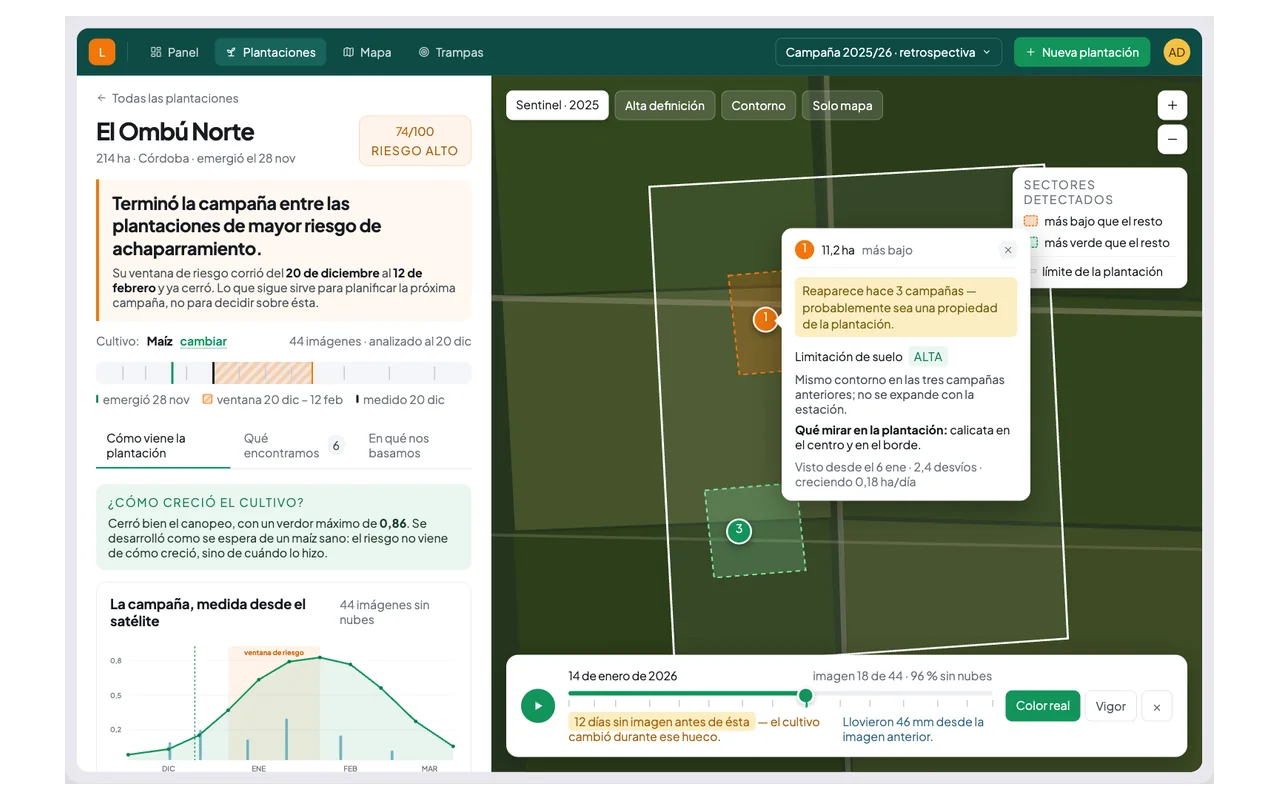
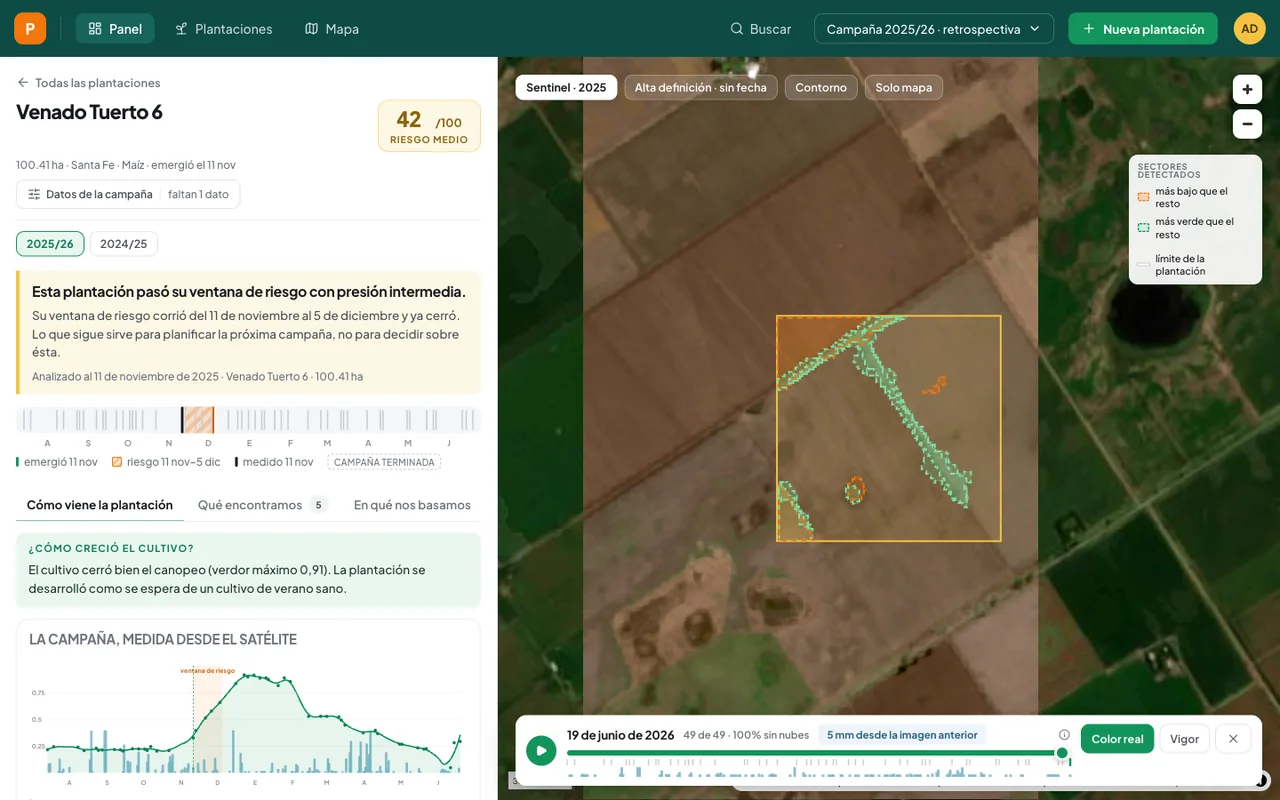
feat(projects): real screenshots from the running apps
Agro Alerta's four slides were design-handoff mockups; they are now the running
product, captured against its local backend and seeded database: the dashboard
with eleven fields pinned on the Sentinel-2 mosaic, one field in detail with its
anomalous sectors and a scrubber through 49 cloud-free captures, the risk-ranked
portfolio table, and the map view.

SnowRide's five slides showed the previous UI; the app was overhauled since.
Four new slides captured from expo web against the local API and its seeded
users cover both sides of the marketplace: rider home and instructor list, a
verified profile beside the bookings screen, the instructor's income and
requests beside the agenda, and pricing tiers beside the Cerro Catedral piste
map.

build-shots.py now builds only solar-fs and says why: regenerating the other
two from files would silently resurrect screenshots of the old UI.

diff --git a/src/data/es.ts b/src/data/es.ts
@@ -149,11 +149,10 @@ export const es: ResumeData = {
         'Un marketplace de dos lados: el rider encuentra instructores en el mapa, filtra por disciplina, mira el perfil y reserva en segundos; el instructor administra su calendario, lo sincroniza con Google Calendar y cobra. App en Expo para ambos lados, más el sitio de la landing.',
       stack: ['React Native', 'Expo', 'TypeScript', 'Expo Router', 'TanStack Query'],
       shots: [
-        { src: '/projects/snowride-1.webp', alt: 'Mapa de exploraci\u00f3n con instructores en Bariloche, junto al perfil de un instructor con su tarifa, disciplinas y rese\u00f1as' },
-        { src: '/projects/snowride-2.webp', alt: 'La lista de reservas de un rider y el chat con su instructor' },
-        { src: '/projects/snowride-3.webp', alt: 'El lado del instructor: sus pr\u00f3ximas clases y el perfil p\u00fablico que administra' },
-        { src: '/projects/snowride-4.webp', alt: 'Detalle de una clase con el alumno y el lugar, al lado de la pantalla de avisos' },
-        { src: '/projects/snowride-5.webp', alt: 'Configuraci\u00f3n de sincronizaci\u00f3n de calendario y las entradas que genera en Google Calendar' },
+        { src: '/projects/snowride-1.webp', alt: 'La home del rider con el clima y la base de nieve de Portillo, junto a la lista de instructores con tarifas, puntajes y qui\u00e9n est\u00e1 disponible hoy' },
+        { src: '/projects/snowride-2.webp', alt: 'El perfil verificado de un instructor con tarifa, experiencia y rese\u00f1as, al lado de la pantalla de reservas con clases confirmadas y sus precios' },
+        { src: '/projects/snowride-3.webp', alt: 'La home del instructor: ingresos de la semana, solicitudes pendientes para aceptar o rechazar, junto a la agenda con la disponibilidad del d\u00eda' },
+        { src: '/projects/snowride-4.webp', alt: 'Tarifas por disciplina y cantidad de alumnos, y el mapa de pistas del Cerro Catedral' },
       ],
       links: [],
       privateSource: true,
@@ -182,10 +181,10 @@ export const es: ResumeData = {
         'Ningún sensor orbital resuelve un insecto de 3 mm. Así que en vez de detectar plagas, esto responde la pregunta con la que un asesor abre la semana: ¿qué lote recorro primero? Combina fenología del cultivo medida por Sentinel-2, acumulación térmica de reanálisis climático y capturas de las trampas de la red de monitoreo. Cada número se puede rastrear hasta una imagen que se puede mirar, en la fecha exacta en que el modelo la leyó.',
       stack: ['Python', 'Sentinel-2', 'STAC', 'NDVI / NDRE', 'Savitzky–Golay', 'Series temporales'],
       shots: [
-        { src: '/projects/agro-1.webp', alt: 'Lotes dibujados sobre un mosaico satelital con sus puntajes de riesgo, y la ficha de un lote explicando por qu\u00e9 sac\u00f3 74' },
-        { src: '/projects/agro-2.webp', alt: 'Informe de un lote: la curva de verdor de la campa\u00f1a y los sectores marcados como an\u00f3malos' },
-        { src: '/projects/agro-3.webp', alt: 'Tabla del portafolio ordenando cada lote por riesgo, superficie y d\u00edas hasta la pr\u00f3xima ventana de emergencia' },
-        { src: '/projects/agro-4.webp', alt: 'Dibujando un lote nuevo sobre el mapa, y la pantalla de acceso' },
+        { src: '/projects/agro-1.webp', alt: 'El panel: once lotes marcados sobre un mosaico Sentinel-2 con sus puntajes de riesgo, los an\u00e1lisis recientes y la curva de verdor del portafolio' },
+        { src: '/projects/agro-2.webp', alt: 'Un lote en detalle: riesgo 42 de 100, sectores an\u00f3malos dibujados sobre la imagen satelital, la l\u00ednea de tiempo de la campa\u00f1a y un recorrido por 49 capturas sin nubes' },
+        { src: '/projects/agro-3.webp', alt: 'El resumen de campa\u00f1a en palabras simples, y la tabla del portafolio ordenando cada lote por riesgo con su curva de campa\u00f1a' },
+        { src: '/projects/agro-4.webp', alt: 'La vista de mapa: todo el portafolio marcado sobre el mosaico Sentinel-2 sin nubes de la Pampa h\u00fameda' },
       ],
       links: [],
       privateSource: true,

diff --git a/src/data/en.ts b/src/data/en.ts
@@ -149,11 +149,10 @@ export const en: ResumeData = {
         'A two-sided marketplace: riders find an instructor on the map, filter by discipline, check the profile and book in seconds; instructors manage their calendar, sync it with Google Calendar and get paid. Expo app for both sides, plus a landing site.',
       stack: ['React Native', 'Expo', 'TypeScript', 'Expo Router', 'TanStack Query'],
       shots: [
-        { src: '/projects/snowride-1.webp', alt: 'Explore map with instructors around Bariloche, beside an instructor profile showing rate, disciplines and reviews' },
-        { src: '/projects/snowride-2.webp', alt: 'A rider\u2019s bookings list and the chat thread with their instructor' },
-        { src: '/projects/snowride-3.webp', alt: 'The instructor side: upcoming classes and the public profile they manage' },
-        { src: '/projects/snowride-4.webp', alt: 'Class detail with the student and location, next to the alerts screen' },
-        { src: '/projects/snowride-5.webp', alt: 'Calendar sync settings and the resulting Google Calendar entries' },
+        { src: '/projects/snowride-1.webp', alt: 'The rider home with today\u2019s weather and snow base at Portillo, beside the instructor list with rates, ratings and who is available today' },
+        { src: '/projects/snowride-2.webp', alt: 'A verified instructor profile with rate, experience and reviews, next to the bookings screen with confirmed classes and their prices' },
+        { src: '/projects/snowride-3.webp', alt: 'The instructor home: weekly income, pending requests to accept or decline, beside the agenda with the day\u2019s availability' },
+        { src: '/projects/snowride-4.webp', alt: 'Per-discipline pricing tiers by group size, and the Cerro Catedral piste map' },
       ],
       links: [],
       privateSource: true,
@@ -182,10 +181,10 @@ export const en: ResumeData = {
         'No orbital sensor can resolve a 3 mm insect. So instead of detecting pests, this answers the question an agronomist actually opens the week with: which field do I walk first? It combines crop phenology measured from Sentinel-2, thermal accumulation from climate reanalysis, and trap counts from the monitoring network. Every number traces back to an image you can look at, on the date the model read it.',
       stack: ['Python', 'Sentinel-2', 'STAC', 'NDVI / NDRE', 'Savitzky–Golay', 'Time series'],
       shots: [
-        { src: '/projects/agro-1.webp', alt: 'Fields outlined on a satellite mosaic with risk scores, and a field card explaining why it scored 74' },
-        { src: '/projects/agro-2.webp', alt: 'Single-field report: the season\u2019s greenness curve and the sectors flagged as anomalous' },
-        { src: '/projects/agro-3.webp', alt: 'Portfolio table ranking every field by risk, area and days to the next emergence window' },
-        { src: '/projects/agro-4.webp', alt: 'Drawing a new field on the map, and the sign-in screen' },
+        { src: '/projects/agro-1.webp', alt: 'The dashboard: eleven fields pinned on a Sentinel-2 mosaic with their risk scores, recent analyses and the portfolio greenness curve' },
+        { src: '/projects/agro-2.webp', alt: 'One field in detail: risk 42 of 100, anomalous sectors drawn over the satellite image, the season timeline and a scrubber through 49 cloud-free captures' },
+        { src: '/projects/agro-3.webp', alt: 'The campaign summary in plain words, and the portfolio table ranking every field by risk with its season sparkline' },
+        { src: '/projects/agro-4.webp', alt: 'The map view: the whole portfolio pinned across the Sentinel-2 cloudless mosaic of the Pampas' },
       ],
       links: [],
       privateSource: true,

diff --git a/scripts/build-shots.py b/scripts/build-shots.py
@@ -1,24 +1,26 @@
 #!/usr/bin/env python3
-"""Build the project carousel slides.
+"""Build the project carousel slides that come from static files.
 
     python3 scripts/build-shots.py
 
 Every slide is letterboxed to the same 16:10 frame so the carousel never changes
-height between projects, and the padding is TRANSPARENT rather than a colour —
+height between projects, and the padding is TRANSPARENT rather than a colour:
 the frame supplies its own background, so one file reads correctly in both
 themes.
 
-Phone screenshots are paired two to a slide: a single 0.46-ratio portrait shot
-stranded in a 16:10 frame is mostly empty space.
+Only solar-fs is built here, from the screenshots committed in its repo.
 
-Sources live in the sibling project repositories, so this only runs on a machine
-that has them checked out beside this one. It skips, loudly, whatever is
-missing — the committed .webp files are the artefacts that actually ship.
+SnowRide and Agro Alerta slides are NOT built by this script and must not be:
+they are captured from the RUNNING apps (SnowRide via `expo start --web`
+against the local API with its seeded users; Agro from its Vite frontend with
+the local backend), at 390x844 for phone screens paired two to a slide, and
+1440x900 for desktop screens. Regenerating them from files would silently
+resurrect screenshots of the old UI. If they need refreshing, run the apps and
+capture again.
 
-Agro Alerta's slides are not built here: they come from a design handoff shipped
-as a self-contained HTML file inside that repo
-(`frontend/Rediseño UIUX proyecto agrícola.zip`), captured in a browser and
-letterboxed with the same `letterbox()` below.
+This runs on a machine that has the sibling repositories checked out beside
+this one; it skips, loudly, whatever is missing. The committed .webp files are
+the artefacts that actually ship.
 """
 
 from __future__ import annotations
@@ -74,20 +76,6 @@ def build(name: str, paths: list[Path], pad: int = 24) -> None:
 
 def main() -> int:
     OUT.mkdir(parents=True, exist_ok=True)
-
-    sr = SIBLINGS / "snowride/landing/assets/images"
-    print("SnowRide — phone screens, two per slide")
-    for i, pair in enumerate(
-        [
-            ("flujo-user/home-app.webp", "flujo-user/perfil-inst-app.webp"),
-            ("flujo-user/reservas-app.webp", "flujo-user/chat-app.webp"),
-            ("flujo-instructor/home-app.webp", "flujo-instructor/perfil-instructor-app.webp"),
-            ("flujo-instructor/clase-detalle-app.webp", "flujo-instructor/alerts-app.webp"),
-            ("flujo-instructor/calendario-syncro.webp", "flujo-instructor/google-calendar.webp"),
-        ],
-        start=1,
-    ):
-        build(f"snowride-{i}.webp", [sr / p for p in pair])
 
     sf = SIBLINGS / "solar-fs/docs/screenshots"
     print("solar-fs — dashboard captures, one per slide")
